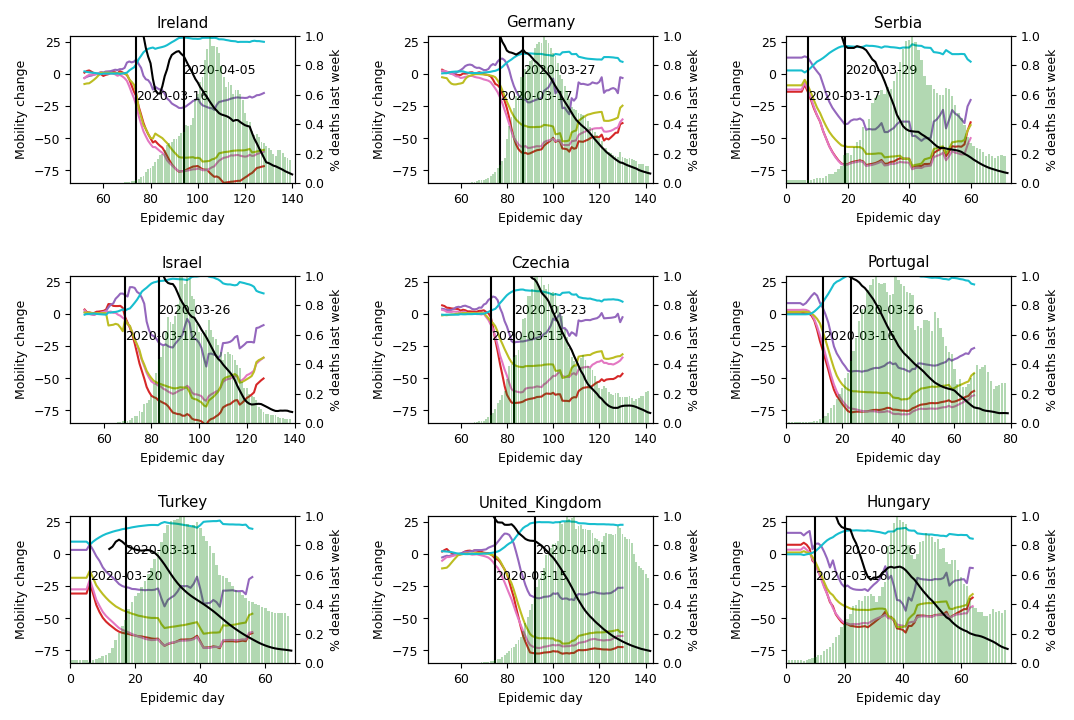
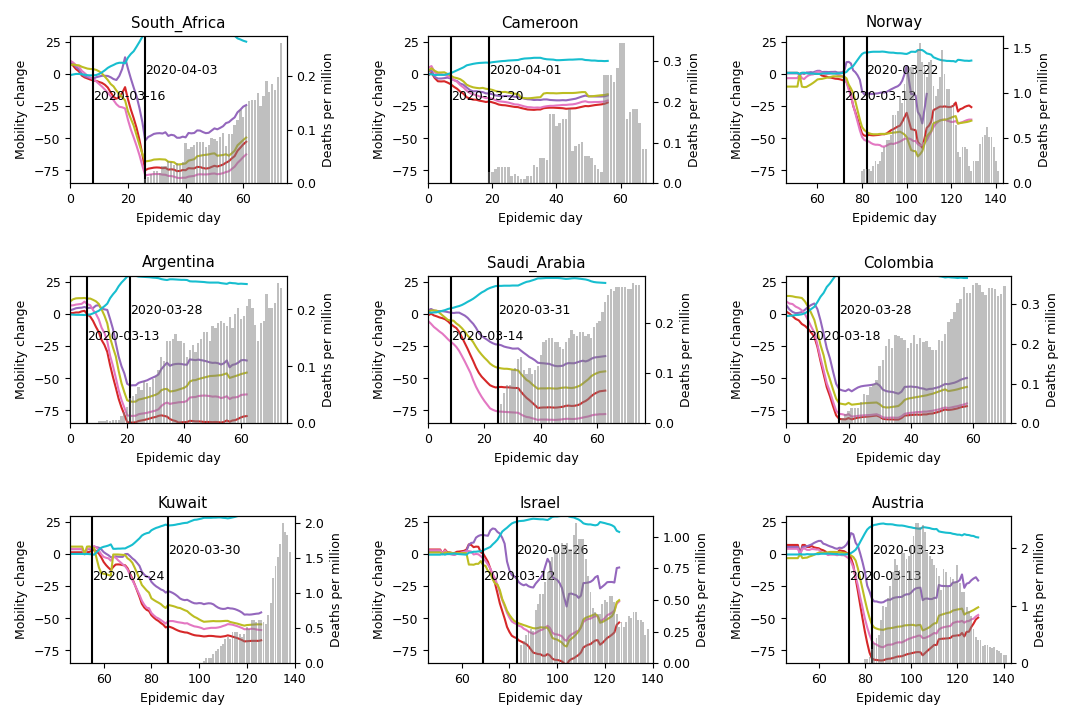
fixed analysis

diff --git a/docs/_site/Deaths_and_mobility.html b/docs/_site/Deaths_and_mobility.html
@@ -75,10 +75,7 @@
   </header>
 
   <div class="post-content">
-    <h2 id="death-percentage-vs-mobility-drop-upon-lockdown">Death percentage vs mobility drop upon lockdown</h2>
-<p><img src="/COVID19.github.io/assets/death_vs_mob.png" alt="death_vs_mob" /></p>
-
-<h2 id="51-countries-all-countries-for-which-the-level-of-at-least-10-deaths-per-day-has-been-reached">51 Countries (All countries for which the level of at least 10 deaths per day has been reached)</h2>
+    <h2 id="51-countries-all-countries-for-which-the-level-of-at-least-10-deaths-per-day-has-been-reached">51 Countries (All countries for which the level of at least 10 deaths per day has been reached)</h2>
 <p><img src="/COVID19.github.io/assets/drop_date1.png" alt="countries_1" />
 <img src="/COVID19.github.io/assets/drop_date2.png" alt="countries_2" />
 <img src="/COVID19.github.io/assets/drop_date3.png" alt="countries_3" />

diff --git a/simulations/drop_and_deaths/analyze_drop.py b/simulations/drop_and_deaths/analyze_drop.py
@@ -52,12 +52,12 @@ def construct_drop(epidemic_data, mobility_data, drop_dates, outdir):
                            'residential_percent_change_from_baseline':'tab:cyan'}
 
 
-        #Save fetched countries, death percentages and mobility data
+        #Save fetched countries, death per million and mobility data
         fetched_countries = []
-        death_percentage = []
+        death_per_million = []
         drop_start_cases = [] #%cases at drop start
         drop_end_cases = [] #%cases at drop end
-        case_percentage = [] #%cases at prediction date
+        cases_per_million = [] #%cases at prediction date
         drop_duration = []
         fetched_mobility = {'retail_and_recreation_percent_change_from_baseline':[],
                            'grocery_and_pharmacy_percent_change_from_baseline':[],
@@ -109,28 +109,28 @@ def construct_drop(epidemic_data, mobility_data, drop_dates, outdir):
                 sm_deaths[i-1]=np.average(country_deaths[i-7:i])
             sm_deaths[0:6] = sm_deaths[7]
             country_epidemic_data['smoothed_deaths']=sm_deaths
+            #Get population in millions
+            country_pop = country_epidemic_data['popData2018'].values[0]/1000000
+            #calculate deaths per million
+            #Get index for first death
+            death_start = np.where(country_deaths>0)[0][0]
+            #Add death per million to df
+            country_epidemic_data['death_per_million'] =sm_deaths/country_pop
 
             #Get date for after drop and corresponding mobility values
             country_drop_end = drop_dates[drop_dates['Country']==country]['drop_end'].values[0]
-            country_drop_day = country_mobility_data[country_mobility_data['date']==country_drop_end].index[0]
+            country_drop_ei = country_mobility_data[country_mobility_data['date']==country_drop_end].index[0]
             for name in covariate_names:
                 #construct a 1-week sliding average to smooth the mobility data
                 data = np.array(country_mobility_data[name])
                 y = np.zeros(len(country_mobility_data))
                 for i in range(7,len(data)):
                     y[i]=np.average(data[i-7:i])
+                y[0:6] = y[7]
+                country_mobility_data[name]=y
+                fetched_mobility[name].append(y[country_drop_ei])
 
-                fetched_mobility[name].append(y[country_drop_day])
-
-            #calculate % deaths last week of total number of deaths
-            #Get index for first death
-            death_start = np.where(country_deaths>0)[0][0]
-            percent_dead_last_week = np.zeros(len(sm_deaths))
-            for i in range(death_start+6,len(sm_deaths)): #Loop over all deaths and calculate % for week intervals
-                percent_dead_last_week[i] = np.sum(sm_deaths[i-7:i])/np.sum(sm_deaths[:i])
-
-            #Add death percentage to df and merge with mobility
-            country_epidemic_data['death_percentage'] = percent_dead_last_week
+            #Merge epidemic data with mobility data
             country_epidemic_data = country_epidemic_data.merge(country_mobility_data, left_on = 'date', right_on ='date', how = 'left')
 
             #Smooth cases
@@ -139,7 +139,8 @@ def construct_drop(epidemic_data, mobility_data, drop_dates, outdir):
             for i in range(7,len(country_epidemic_data)):
                 sm_cases[i-1]=np.average(cases[i-7:i])
             sm_cases[0:6] = sm_cases[7]
-            country_epidemic_data['smoothed_cases']=sm_cases/max(sm_cases)
+            country_epidemic_data['cases_per_million']=sm_cases/country_pop
+
             #Get %cases at drop start and end
             country_drop_start = drop_dates[drop_dates['Country']==country]['drop_start'].values[0]
             dsi = country_epidemic_data[country_epidemic_data['date']==country_drop_start].index[0] #drop start index
@@ -152,23 +153,23 @@ def construct_drop(epidemic_data, mobility_data, drop_dates, outdir):
             if death_delay>=len(country_epidemic_data):
                 death_delay = len(country_epidemic_data)-1
                 print(country, 'has only', len(country_epidemic_data)-1-dsi, 'days of epidemic data after drop')
-            death_percentage.append(country_epidemic_data.loc[death_delay,'death_percentage'])
-            drop_start_cases.append(country_epidemic_data.loc[dsi,'smoothed_cases']) #%cases at drop start
-            drop_end_cases.append(country_epidemic_data.loc[dei,'smoothed_cases'])
-            case_percentage.append(country_epidemic_data.loc[death_delay,'smoothed_cases'])
+            death_per_million.append(country_epidemic_data.loc[death_delay,'death_per_million'])
+            drop_start_cases.append(country_epidemic_data.loc[dsi,'cases_per_million']) #%cases at drop start
+            drop_end_cases.append(country_epidemic_data.loc[dei,'cases_per_million'])
+            cases_per_million.append(country_epidemic_data.loc[death_delay,'cases_per_million'])
             drop_duration.append(dei-dsi)
             #Get biggest drop - decide by plotting
-            #identify_drop(country_epidemic_data, country, drop_dates, covariate_names, death_start, mobility_start, mobility_end, outdir)
+            identify_drop(country_epidemic_data, country, drop_dates, covariate_names, death_start, mobility_start, mobility_end, outdir)
             fetched_countries.append(country)
 
 
         print(len(fetched_countries), 'countries are included in the analysis')
         drop_df = pd.DataFrame() #Save drop values
         drop_df['Country'] = fetched_countries
-        drop_df['Death percentage'] = death_percentage
-        drop_df['drop_start_cases'] = drop_start_cases#%cases at drop start
-        drop_df['drop_end_cases'] = drop_end_cases #%cases at drop end
-        drop_df['Case percentage'] = case_percentage #%cases at assessment point
+        drop_df['Deaths per million'] = death_per_million
+        drop_df['drop_start_cases'] = drop_start_cases#cases per million  at drop start
+        drop_df['drop_end_cases'] = drop_end_cases #cases per million  at drop end
+        drop_df['Cases per million'] = cases_per_million #cases per million at assessment point
         drop_df['drop_duration'] = drop_duration
         drop_df['retail'] = fetched_mobility['retail_and_recreation_percent_change_from_baseline']
         drop_df['grocery and pharmacy'] = fetched_mobility['grocery_and_pharmacy_percent_change_from_baseline']
@@ -180,7 +181,7 @@ def construct_drop(epidemic_data, mobility_data, drop_dates, outdir):
         #plot relationships
         plot_death_vs_drop(drop_df, outdir)
         #Print countries in increaseing death % order
-        drop_df = drop_df.sort_values(by='Death percentage')
+        drop_df = drop_df.sort_values(by='Deaths per million')
         countries= np.array(drop_df['Country'])
         for i in range(0,len(drop_df),9):
             print('montage '+'_slide7.png '.join(countries[i:i+9])+ '_slide7.png -tile 3x3 -geometry +2+2')
@@ -207,16 +208,11 @@ def identify_drop(country_epidemic_data, country, drop_dates, covariate_names, d
         drop_start_index = country_epidemic_data[country_epidemic_data['date']==drop_start_date].index[0]
 
     #Percent dead last week
-    percent_dead_last_week = np.array(country_epidemic_data['death_percentage'])
+    death_per_million = np.array(country_epidemic_data['death_per_million'])
     fig, ax1 = plt.subplots(figsize=(9/2.54, 6/2.54))
     for name in covariate_names:
         #construct a 1-week sliding average
-        data = np.array(country_epidemic_data[name])
-        y = np.zeros(len(country_epidemic_data))
-        for i in range(7,len(y)):
-            y[i-1]=np.average(data[i-7:i])
-        y[0:6] = y[7]
-        country_epidemic_data[name]=y
+        y = np.array(country_epidemic_data[name])
         y_index = country_epidemic_data[name].dropna().index #remove NaNs
         ax1.plot(np.arange(msi,y_index[-1]), y[msi:y_index[-1]], color = covariate_names[name])
     #Plot date for values used as drop start and end
@@ -229,17 +225,18 @@ def identify_drop(country_epidemic_data, country, drop_dates, covariate_names, d
     ax1.set_ylabel('Mobility change')
     ax1.set_title(country)
     ax2 = ax1.twinx()
-    ax2.plot(np.arange(death_start+7,len(percent_dead_last_week)), percent_dead_last_week[death_start+7:], color = 'k')
+    ax2.bar(np.arange(death_start+7,len(death_per_million)), death_per_million[death_start+7:], color = 'grey', alpha = 0.5)
     #Cases
-    cases = np.array(country_epidemic_data['smoothed_cases'])/max(country_epidemic_data['smoothed_cases'])
-    ax2.bar(np.arange(len(cases)), cases, alpha = 0.3, color = 'g')
-    ax2.set_ylabel('% deaths last week')
+    #cases = np.array(country_epidemic_data['cases_per_million'])
+    #ax2.bar(np.arange(len(cases)), cases, alpha = 0.3, color = 'g')
+    ax2.set_ylabel('Deaths per million')
     ax1.set_xlim([msi, len(country_epidemic_data)]) #start of mobility til end of death %
     ax1.set_ylim([-85,30])
-    ax2.set_ylim([0,1])
+    #ax2.set_ylim([0,15])
     fig.tight_layout()
     fig.savefig(outdir+'identify_drop/'+country+'_slide7.png',  format='png')
     plt.close()
+
 
     return None
 
@@ -254,9 +251,9 @@ def plot_death_vs_drop(drop_df, outdir):
 
     for key in covariates:
         fig, ax = plt.subplots(figsize=(9/2.54, 9/2.54))
-        ax.scatter(drop_df[key], drop_df['Case percentage'], color = covariates[key])
+        ax.scatter(drop_df[key], drop_df['Deaths per million'], color = covariates[key])
         ax.set_xlabel('Mobility change in drop')
-        ax.set_ylabel('Case percentage 56 days after drop start')
+        ax.set_ylabel('Deaths per million 56 days after drop start')
         #ax.set_yscale('log')
         ax.set_title(key)
         fig.tight_layout()
@@ -266,21 +263,27 @@ def plot_death_vs_drop(drop_df, outdir):
 def linear_reg(drop_df, outdir):
     '''Pareform LR
     '''
-    y = np.array(drop_df['Case percentage'])
+    y = np.array(drop_df['Deaths per million'])
     X = [np.array(drop_df['drop_start_cases']), np.array(drop_df['drop_end_cases']),
        np.array(drop_df['drop_duration']), np.array(drop_df['retail']),
        np.array(drop_df['grocery and pharmacy']), np.array(drop_df['transit']),
        np.array(drop_df['work']),np.array(drop_df['residential'])]
     X = np.array(X)
     X=X.T
-    reg = LinearRegression().fit(X, y)
-    score= reg.score(X,y)
+    Z=np.abs(X)
+    Z=Z+0.000001
+    Z = np.log(Z)
+    logy=np.log(y)
+
+
+    reg = LinearRegression().fit(Z, logy)
+    score= reg.score(Z,y)
     coef = reg.coef_
     print('Score:',score)
     print('Coef.', coef)
 
     #Visualize
-    col_names = ['','% cases drop start', '% cases drop end', 'drop duration', 'retail',
+    col_names = ['','cases per million at drop start', 'cases  per million at drop end', 'drop duration', 'retail',
             'grocery and pharmacy', 'transit', 'work', 'residential']
     fig, ax = plt.subplots(figsize=(12/2.54, 12/2.54))
     ax.bar(np.arange(8), coef)
@@ -293,34 +296,22 @@ def linear_reg(drop_df, outdir):
     #2D plots
     colors = ['b','g']
     fig, ax = plt.subplots(figsize=(12/2.54, 12/2.54))
-    for i in range(2):
+    for i in range(8):
         fig, ax = plt.subplots(figsize=(12/2.54, 12/2.54))
-        ax.scatter(X[:,i], y, color =colors[i])
-        z = np.polyfit(X[:,i],y, deg=3)
-        p = np.poly1d(z)
-        ax.plot(np.sort(X[:,i]),p(np.sort(X[:,i])))
-        ax.set_ylabel('% Cases')
+        ax.scatter(np.abs(X[:,i]), y)
+        #z = np.polyfit(X[:,i],y, deg=3)
+        #p = np.poly1d(z)
+        #ax.plot(np.sort(X[:,i]),p(np.sort(X[:,i])))
+        ax.set_xscale('log')
+        ax.set_yscale('log')
+        ax.set_ylabel('Deaths per million')
         ax.set_xlabel(col_names[i+1])
-        ax.set_title(col_names[i+1])
+        R,p = pearsonr(Z[:,i],logy)
+        ax.set_title(col_names[i+1]+'|R='+str(np.round(R,2)))
         fig.legend()
         fig.savefig(outdir+str(i)+'_coef.png',  format='png')
     pdb.set_trace()
-    #3D plot
-    B1, B2 = np.meshgrid(X[:,0], X[:,1])
-    B3 = np.zeros((len(y),len(y)))
-    for i in range(len(y)):
-        B3[i,:]=y[i]
-    fig, ax = plt.subplots(figsize=(12/2.54, 12/2.54))
-    ax = plt.axes(projection='3d')
-    ax.scatter3D(X[:,0], X[:,1], y, color ='magenta')
-    #ax.plot_trisurf(X[:,0], X[:,1], y, cmap='viridis')
-    ax.set_xlabel('% cases at drop start')
-    ax.set_ylabel('% cases at drop end')
-    ax.set_zlabel('% Cases')
-    ax.plot_surface(B1, B2, B3,alpha=0.2)
-    #fig.savefig(outdir+'3D_coef.png',  format='png')
-    plt.show()
-    pdb.set_trace()
+
 #####MAIN#####
 #Set font size
 matplotlib.rcParams.update({'font.size': 9})
@@ -329,6 +320,6 @@ epidemic_data = pd.read_csv(args.epidemic_data[0])
 mobility_data = pd.read_csv(args.mobility_data[0])
 drop_dates = pd.read_csv(args.drop_dates[0])
 outdir = args.outdir[0]
-#drop_df = construct_drop(epidemic_data, mobility_data, drop_dates, outdir)
+drop_df = construct_drop(epidemic_data, mobility_data, drop_dates, outdir)
 drop_df=pd.read_csv('drop_df.csv')
 linear_reg(drop_df, outdir)

diff --git a/docs/Deaths_and_mobility.md b/docs/Deaths_and_mobility.md
@@ -3,9 +3,6 @@ layout: page
 title: Analyzing the relationship between the death rate and the lockdown
 ---
 
-## Death percentage vs mobility drop upon lockdown
-![death_vs_mob](./assets/death_vs_mob.png)
-
 ## 51 Countries (All countries for which the level of at least 10 deaths per day has been reached)
 ![countries_1](./assets/drop_date1.png)
 ![countries_2](./assets/drop_date2.png)
